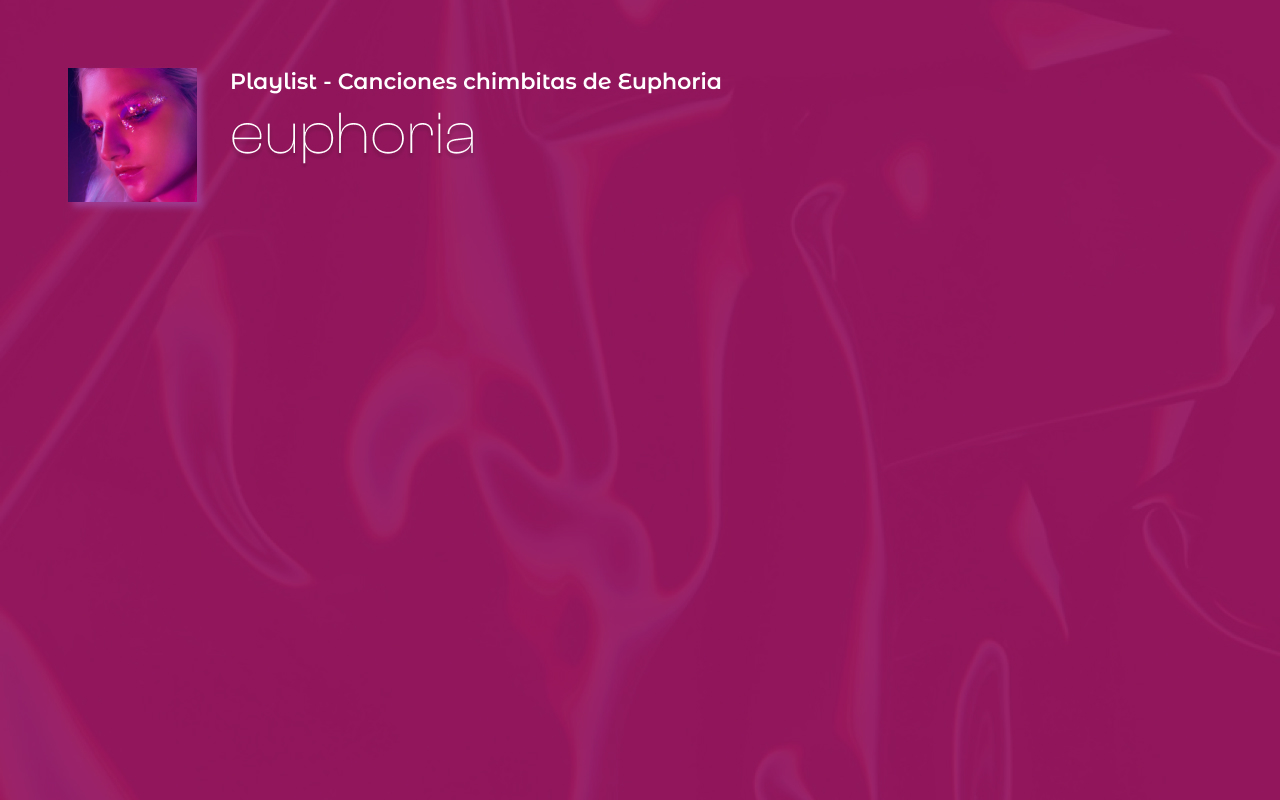
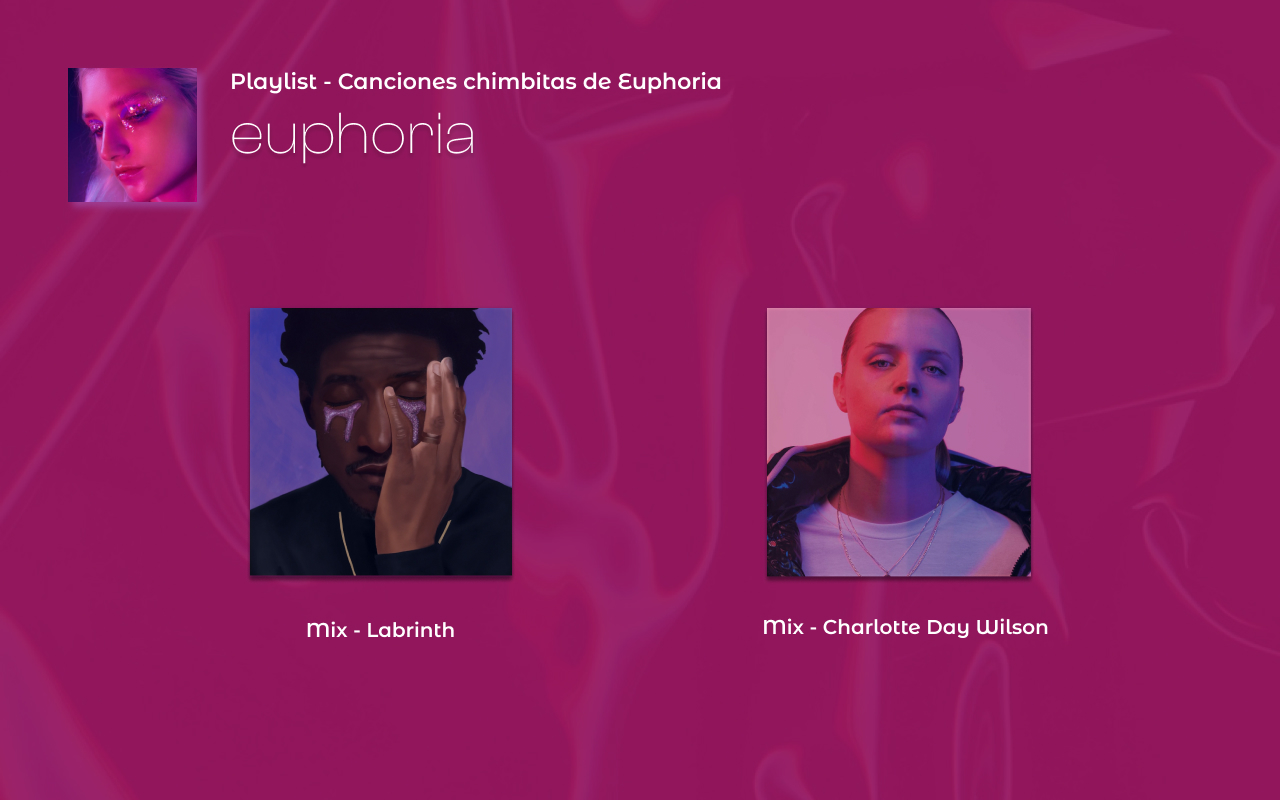
sample}

Changed region(s): [[0.5938, 0.375, 0.8125, 0.8125], [0.1875, 0.375, 0.4062, 0.75], [0.2188, 0.7812, 0.3438, 0.8125]]

diff --git a/sketch.js b/sketch.js
@@ -2,15 +2,12 @@ let canciones;
 let imagenes;
 let backgrounds = [];
 let screensCounter = 0;
-let buton = new Boton(590, 655, "pasar", 0, 0, 100);
-let cancionesChimbitasBoton = new Boton(450, 290, "imagen de playlist", 0, 0, 250);
-let nuevaPlaylistBoton = new Boton(850, 290, "crear playlist", 0, 0, 250);
-let mixLabrinthBoton = new Boton(300, 300, "charlotte", 0, 0, 300);
-let mixCharlotteBoton = new Boton(600, 100, "labrinthh", 0, 0, 500);
-function preload(){
-  canciones = loadSound('charlotte-day-wilson-changes.mp3');
-  canciones.setVolume(0.5);
-  boton = createButton("play.png");
+let labrinthCanciones = [];
+let charlotteCanciones = [];
+
+// sample
+
+
   /*  canciones[1] = loadSound("charlotte-day-wilson-keep-moving.mp3");
   canciones[2] = loadSound("charlotte-day-wilson-work-euphoria-ost.mp3");
   canciones[3] = loadSound("lovesick-utopia.mp3");
@@ -18,8 +15,22 @@ function preload(){
   canciones[5] = loadSound("labrinth-formula-official-audio-euphoria-original-score-from-the-hbo-series.mp3");
   canciones[6] = loadSound("labrinth-nate-growing-up-official-audio-euphoria-original-score-from-the-hbo-series.mp3");
   canciones[7] = loadSound("labrinth-zendaya-all-for-us-traducida-al-espanol.mp3");*/
-  
-}
+  let volumeSlider;
+
+  let cancionIndex = 0;
+
+  let labrinthCancionesObject = [];
+  labrinthCancionesObject[0] = new Cancion("All for us", "3:13", "Labrinth & Zendaya");
+  labrinthCancionesObject[1] = new Cancion("Formula", "1:32", "Labrinth");
+  labrinthCancionesObject[2] = new Cancion("Nate growing up", "2:33", "Labrinth");
+  labrinthCancionesObject[3] = new Cancion("Demanding excellence", "3:30", "Labrinth");
+
+  let charlotteCancionesObject = [];
+  charlotteCancionesObject[0] = new Cancion("Work", "4:17", "Charlotte Day Wilson");
+  charlotteCancionesObject[1] = new Cancion("Changes", "3:38", "Charlotte Day Wilson");
+  charlotteCancionesObject[2] = new Cancion("Keep moving", "4:44", "Charlotte Day Wilson");
+  charlotteCancionesObject[3] = new Cancion("Lovesick utopia", "2:55", "Charlotte Day Wilson");
+
 
 function preload() {
   backgrounds[0] = loadImage("./imagenes/interfaz.jpg");
@@ -31,43 +42,78 @@ function preload() {
 
 function setup() {
  createCanvas(1280, 800);
- //imagen = loadImage('pagina-principal-final.jpg');
- ///imagen1 = loadImage('reproducirp.png');
 }
 
 function draw() {
   image(backgrounds[screensCounter],0,0);
-  //image(imagen1, 500, height/1.2);
-  buton.draw(); 
-  cancionesChimbitasBoton.draw(); 
-  nuevaPlaylistBoton.draw(); 
+ 
+  //BORRARR
+  text("x: " + mouseX + "y: "+ mouseY, mouseX, mouseY);
+
+
+  if (screensCounter == 0){
+
+  } 
+
+  if (screensCounter == 1){
+  }
+
+  if (screensCounter == 2){
+
+  }
+
+  if (screensCounter == 3){
+   // volumeSlider.style('display', 'none');
+    
+  }
 } 
   
 
 function mousePressed(){
 
 //screenCounter++;
-if (backgrounds == 0){
+if (screensCounter == 0){
 
-  if (dist(buton.getX(),buton.getY(),mouseX, mouseY)< buton.radius) {
-    console.log("hola")
-    backgrounds = 2;
+  if (dist(640, 680,mouseX, mouseY) <= 100) {
+    console.log("Diosito ya llevame :C")
+    screensCounter = 1;
   }
 }
 
-if (backgrounds == 1){
+if (screensCounter == 1){
 
-if (dist(cancionesChimbitasBoton.getX(),cancionesChimbitasBoton.getY(),mouseX, mouseY)< cancionesChimbitasBoton.radius) {
+if (dist(640,380,mouseX, mouseY)<= 140) {
   screensCounter++;
 }
 }
 
-if (backgrounds == 2){
+if (screensCounter == 2){
+  if (dist(135,130,mouseX, mouseY)<= 55) {
+    screensCounter = 1;
+  }
+  //man
+  if (dist(390,433,mouseX, mouseY)<= 113) {
+    screensCounter = 3;
+  }
 
-if (dist(nuevaPlaylistBoton.getX(),nuevaPlaylistBoton.getY(),mouseX, mouseY)< nuevaPlaylistBoton.radius) {
-  screensCounter++;
+  //chica
+  if (dist(907,438,mouseX, mouseY)<= 120) {
+    screensCounter = 4;
+  }
 }
+
+if (screensCounter == 3){
+  if (dist(135,130,mouseX, mouseY)<= 55) {
+    screensCounter = 2;
+  }
 }
+
+if (screensCounter == 4){
+  if (dist(135,130,mouseX, mouseY)<= 55) {
+    screensCounter = 2;
+  }
+}
+
 
 
 

diff --git a/Cancion.js b/Cancion.js
@@ -1,20 +1,19 @@
 class Cancion{
-    /*constructor({
-        nombre,
-        cancion,
-        artista,
-        cover,        
-    }){
-        this._nombre = nombre;
-        this._cancion = cancion;
-        this._artista = artista;
-        this._cover = cover;
-        this._inSelected = false;
+    constructor(nombre, duracion, artista, x, y, pos){
+        this.nombre = nombre;
+        this.duracion = duracion;
+        this.artista = artista;
+        this.x = x;
+        this.y = y;
+        this.pos = pos;
     }
-    mostrar(i){
+    /*mostrar(i){
         const apagadoY = 60 * i;
         if (this.isMouseOver(i)){
             
         }
-    }*/
-}
+    }
+}function preload(){
+    canciones = loadSound('charlotte-day-wilson-changes.mp3');
+    canciones.setVolume(0.5);
+boton = createButton("play.png");*/}
